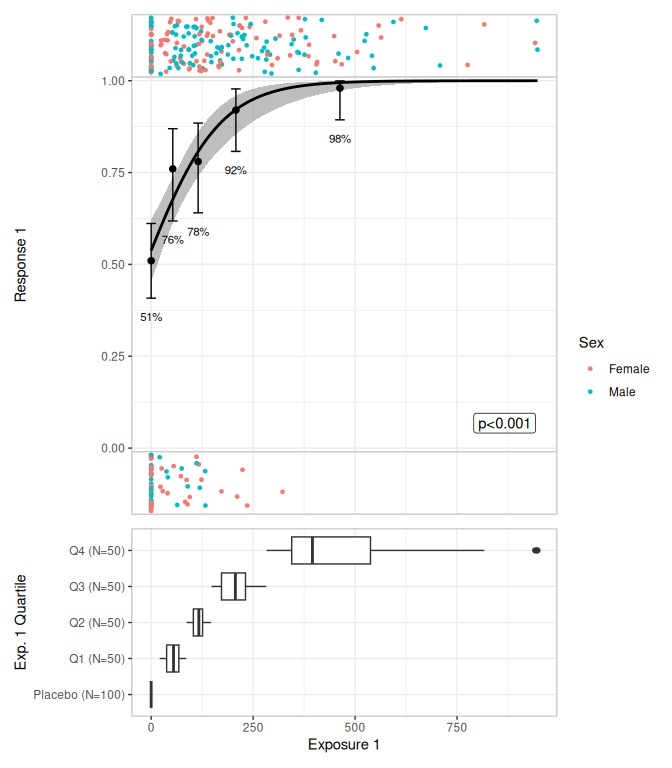
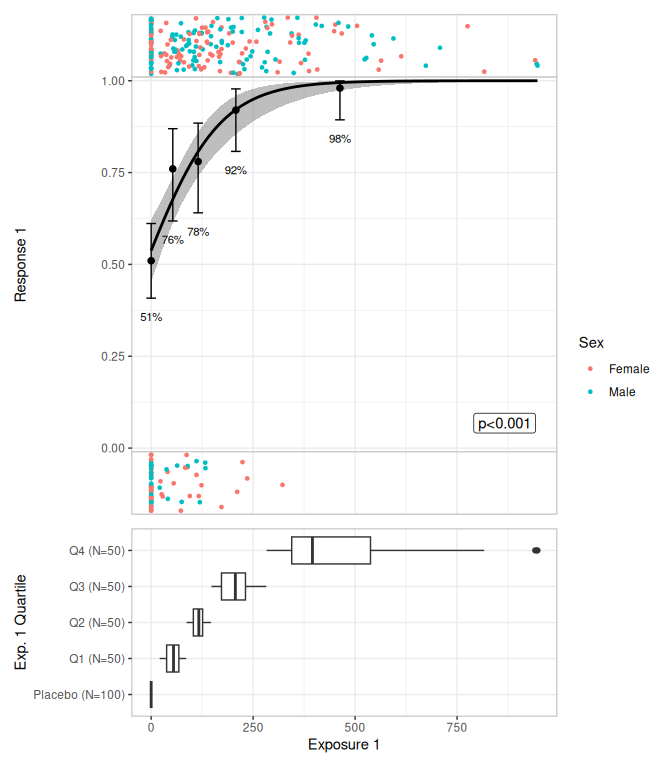
updates docs

diff --git a/README.md b/README.md
@@ -80,8 +80,6 @@ lr_data |>
   lr_plot_add_quantiles(bins = 4) |> 
   lr_plot_add_boxplot(group_by = quartile_1) |> 
   print()
-#> Warning: annotation$theme is not a valid theme.
-#> Please use `theme()` to construct themes.
 ```
 
 <img src="man/figures/README-lr-plot-1.png" width="100%" />
@@ -94,8 +92,6 @@ lr_data |>
   lr_plot_add_jitter_strips(color_by = sex) |> 
   lr_plot_add_boxplot(group_by = quartile_1) |> 
   print()  
-#> Warning: annotation$theme is not a valid theme.
-#> Please use `theme()` to construct themes.
 ```
 
 <img src="man/figures/README-lr-plot-2.png" width="100%" />
@@ -109,8 +105,6 @@ lr_data[1:70,] |>
   lr_plot_add_boxplot(group_by = quartile_1) |> 
   lr_plot_add_boxplot(group_by = sex) |> 
   print(box_height = 2)
-#> Warning: annotation$theme is not a valid theme.
-#> Please use `theme()` to construct themes.
 ```
 
 <img src="man/figures/README-lr-plot-3.png" width="100%" />
@@ -125,8 +119,8 @@ lr_scm_history(mod2)
 #>   iteration attempt step       action term_tested model_tested   model_converged
 #>       <int>   <int> <chr>      <chr>  <chr>       <chr>          <lgl>          
 #> 1         0       0 base model <NA>   <NA>        response_1 ~ … TRUE           
-#> 2         1       1 backward   remove ~sex        response_1 ~ … TRUE           
-#> 3         1       2 backward   remove ~dose       response_1 ~ … TRUE           
+#> 2         1       1 backward   remove ~dose       response_1 ~ … TRUE           
+#> 3         1       2 backward   remove ~sex        response_1 ~ … TRUE           
 #> 4         2       3 backward   remove ~sex        response_1 ~ … TRUE           
 #> # ℹ 4 more variables: term_p_value <dbl>, model_aic <dbl>, model_bic <dbl>,
 #> #   model_updated <int>
@@ -141,16 +135,16 @@ sim
 #> # A tibble: 30,000 × 5
 #>    response_1 exposure_1 sex    row_id sim_id
 #>         <dbl>      <dbl> <fct>   <int>  <int>
-#>  1      0.853      148.  Male        1      1
-#>  2      0.752       79.7 Male        2      1
-#>  3      0.914      212.  Male        3      1
-#>  4      0.906      236.  Female      4      1
-#>  5      0.587        0   Male        5      1
-#>  6      0.668       71.0 Female      6      1
-#>  7      0.880      173.  Male        7      1
-#>  8      0.768      123.  Female      8      1
-#>  9      0.587        0   Male        9      1
-#> 10      0.831      165.  Female     10      1
+#>  1      0.912      148.  Male        1      1
+#>  2      0.827       79.7 Male        2      1
+#>  3      0.955      212.  Male        3      1
+#>  4      0.918      236.  Female      4      1
+#>  5      0.660        0   Male        5      1
+#>  6      0.636       71.0 Female      6      1
+#>  7      0.932      173.  Male        7      1
+#>  8      0.760      123.  Female      8      1
+#>  9      0.660        0   Male        9      1
+#> 10      0.835      165.  Female     10      1
 #> # ℹ 29,990 more rows
 
 lr_vpc_plot(mod, sim, group_by = exposure_1)
